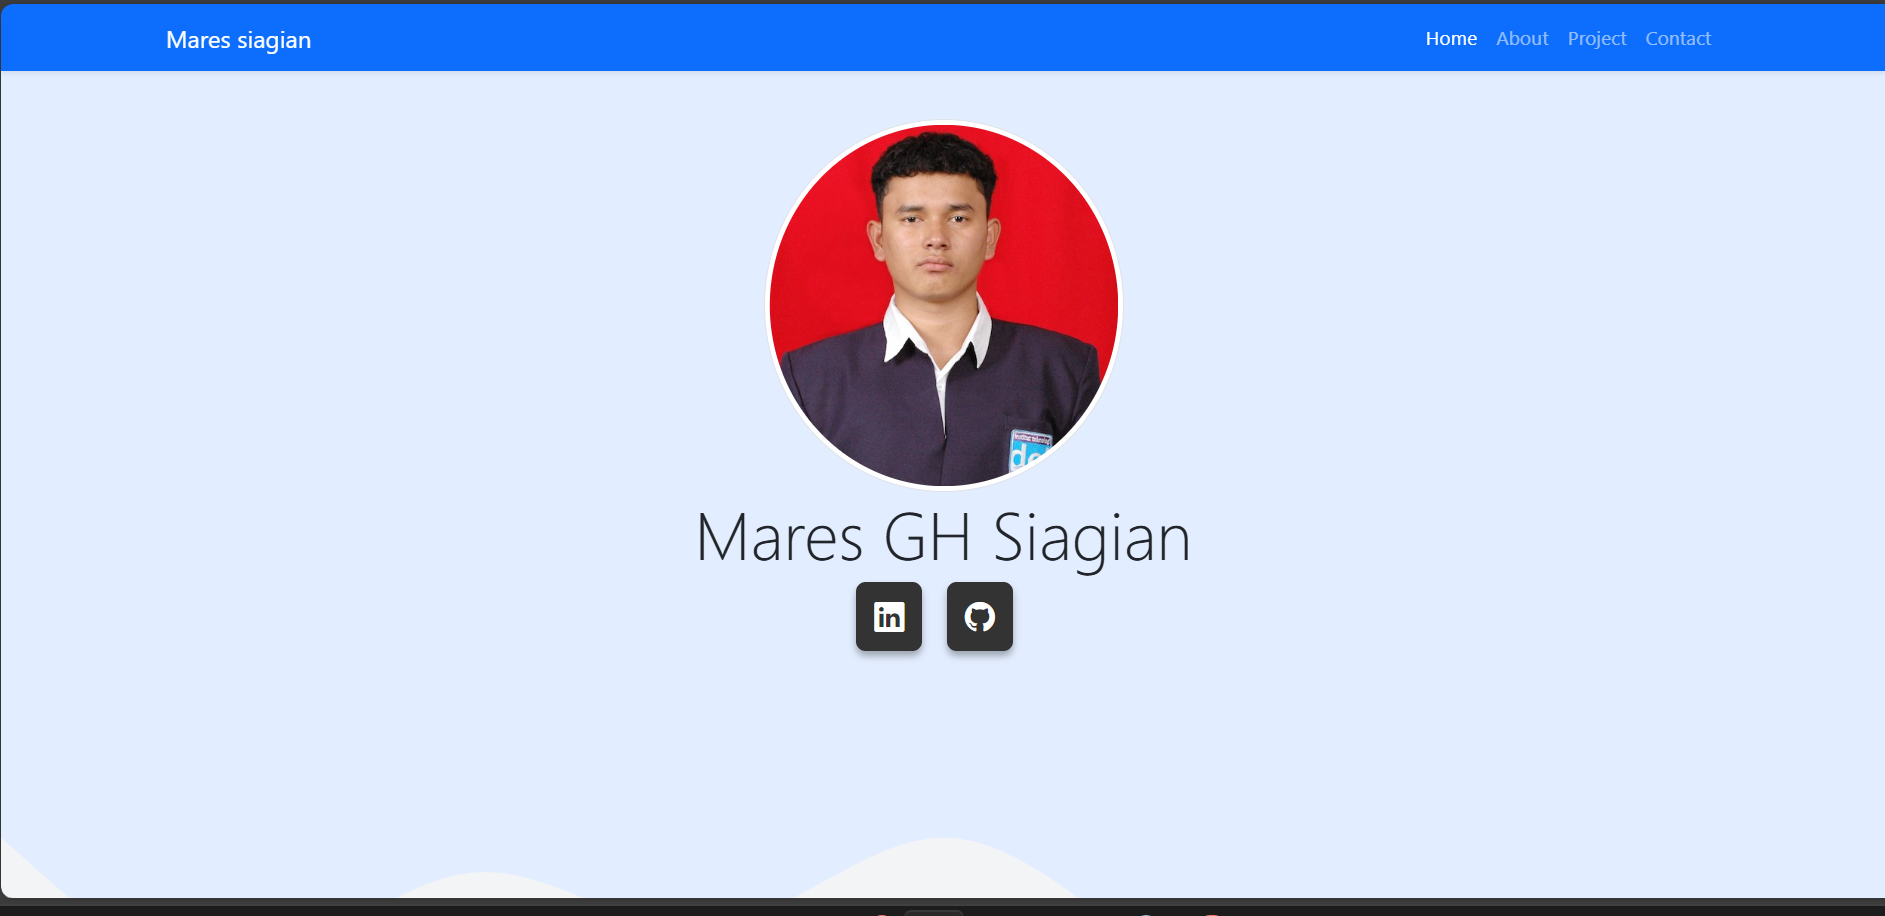
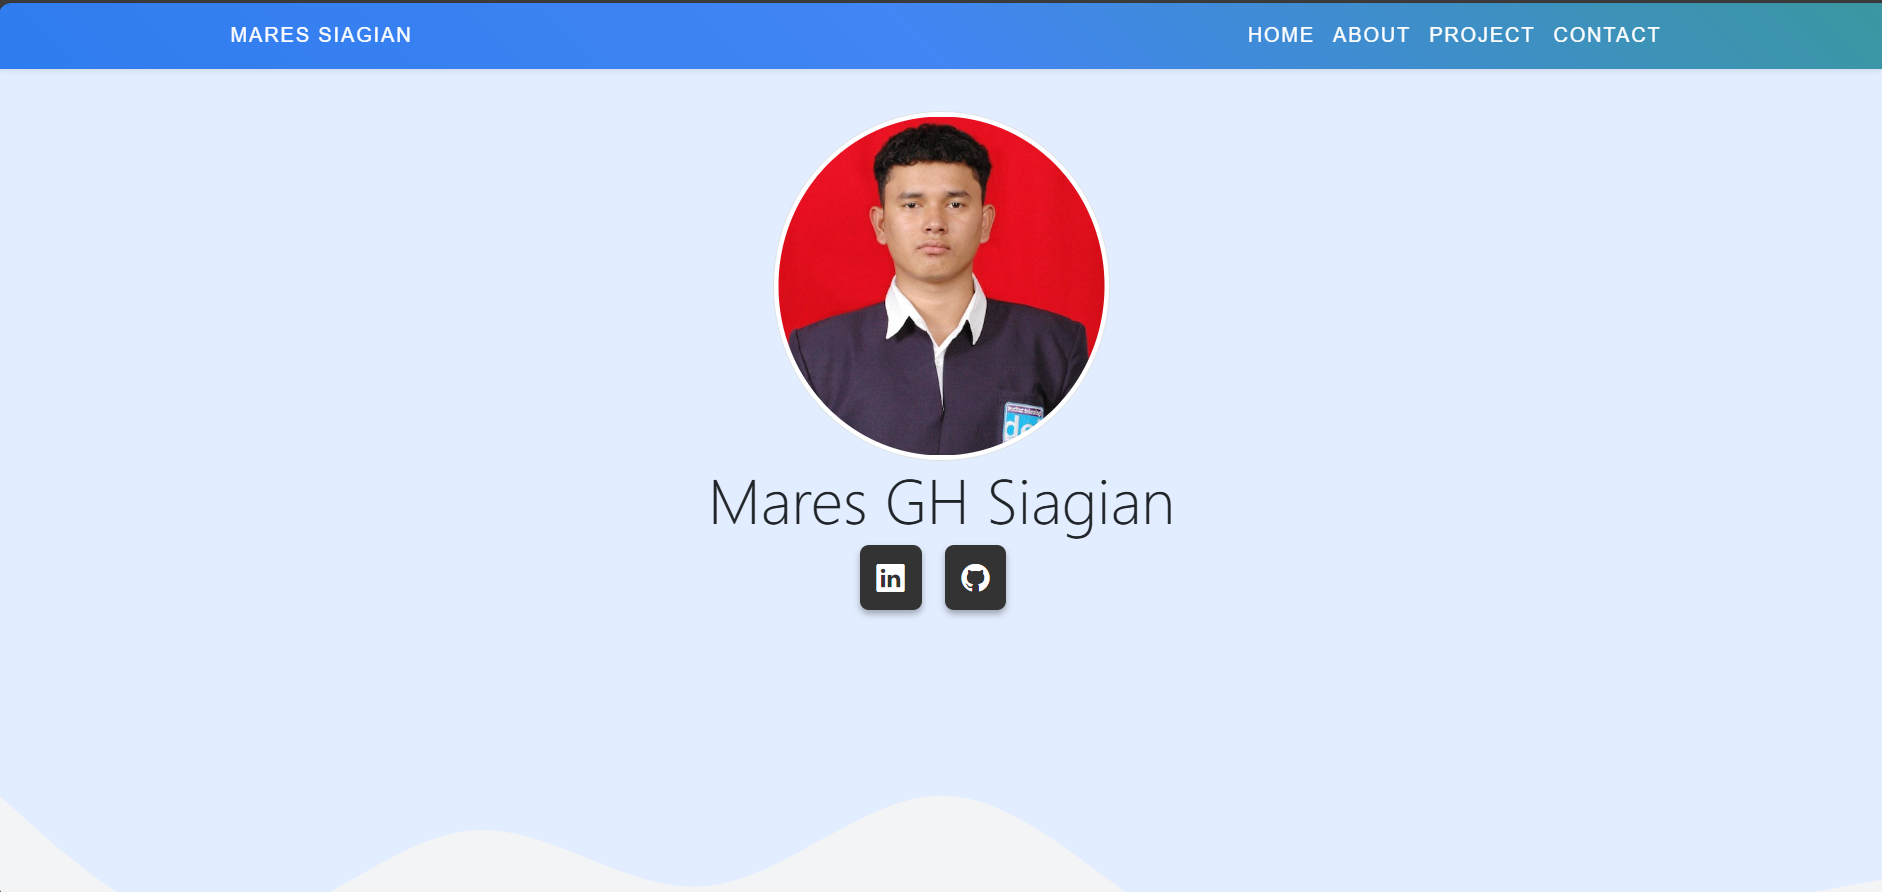
sudah memperbaiki

Changed region(s): [[0.0, 0.0, 1.0, 0.0908], [0.3698, 0.1211, 0.6472, 0.7265], [0.0, 0.9686, 1.0, 1.0]]

diff --git a/index.html b/index.html
@@ -41,15 +41,18 @@
     </nav>
     <!-- Ahkir nvbar -->
     <!-- jumbotron -->
-    <div class="jumbotron text-center hidden">
+    <div class="jumbotron text-center">
       <img src="img/Portofolio.jpg" alt="Mares Siagian" width="300" class="rounded-circle img-thumbnail hidden" />
-      <h1 class="display-4 hidden">Mares GH Siagian</h1>
+      <h1 class="display-4">Mares GH Siagian</h1>
       <p class="lead hidden">
         <a href="https://www.linkedin.com/in/mares-siagian30" target="_blank" class="bi bi-linkedin">
           <i class="fab fa-linkedin"></i>
         </a>
         <a href="https://github.com/MaresGHSiagian" target="_blank" class="bi bi-github">
           <i class="fab fa-github"></i>
+        </a>
+        <a href="https://www.instagram.com/mares_siagian/" target="_blank" class="bi bi-instagram">
+          <i class="fab fa-instagram"></i>
         </a>
       </p>
       <svg xmlns="http://www.w3.org/2000/svg" viewBox="0 0 1440 320" class="hidden">
@@ -70,12 +73,19 @@
         </div>
         <div class="row justify-content-center fs-5 text-center">
           <div class="col-md-4">
-            <p class="text">
-              I am a fresh graduate student from the Del Institute of Technology majoring in Information Systems. I have experience in web development, data warehousing, and mobile application design. Currently, I am very interested in
+            <p class="text-start">
+              Hello! My name is Mares Siagian. You can call me Mares. I live in Parhitean, North Sumatra. I am a graduate of Information System from Institut Teknologi Del. I like Futsal, Volleyball, and learning new things.
+          </div>
+          <div class="col-md-4">
+            <p class="text text-start">
+              I am a graduate student from the Del Institute of Technology majoring in Information Systems. I have experience in web development, data warehousing, and mobile application design. Currently, I am very interested in
               positions related to Data Analyst, Front End Development, and Back End Developer. I have good experience in leadership, integrity, communication skills, time management, teamwork, problem-solving, and quick learning, and I am
               ready to take on new challenges.
             </p>
-          </div>
+            </div>       
+          <div class="col-md-4">
+            <p class="text-start">
+            I am a Frontend developer with a solid foundation in Web design and development, backed by hands-on professional experience. I’m passionate about crafting seamless user experiences and clean, efficient code. I’m currently seeking new challenges as a Software Engineer, Frontend Engineer and Back End where I can contribute my expertise and continue to grow. </p>
             </div>       
           </div>
         </div>
@@ -143,7 +153,7 @@
           </div>
           <div class="col-md-6 mb-3">
             <div class="card">
-              <img src="img/PLN.png" class="card-img-top" style="height: 306px;alt="projects4" />
+              <img src="img/PLN.png" class="card-img-top" style="height: 306px;" alt="projects4" />
               <div class="card-body">
                 <p class="card-text fw-bold">SISTEM INFORMASI ATTB(Aset tetap tidak Beropersi)PLN UP 3 MEDAN</p>
                 <p class="card-text">Web Design for Assisting Employees in Managing Assets PLN UP 3 Medan</p>
@@ -179,20 +189,21 @@
         </div>
         <div class="row justify-content-center">
           <div class="col-md-7">
-            <form name="wpu-contact-form">
+            <form name="wpu-contact-form" onsubmit="return validateForm()">
               <div class="mb-3">
                 <label for="name" class="form-label">Nama Lengkap</label>
-                <input type="text" class="form-control" id="name" aria-describedby="name" name="nama" />
+                <input type="text" class="form-control" id="name" aria-describedby="name" name="nama" required />
               </div>
               <div class="mb-3">
                 <label for="email" class="form-label">Email</label>
-                <input type="email" class="form-control" id="email" aria-describedby="email" name="email" />
+                <input type="email" class="form-control" id="email" aria-describedby="email" name="email" required />
               </div>
               <div class="mb-3">
                 <label for="pesan" class="form-label">Pesan</label>
-                <textarea class="form-control" id="pesan" rows="3" name="pesan"></textarea>
+                <textarea class="form-control" id="pesan" rows="3" name="pesan" required></textarea>
               </div>
-              <button type="submit" class="btn btn-primary" onclick="showMessage()">Kirim</button>
+              <button type="submit" class="btn btn-primary">Kirim</button>
+              <p id="error-message" style="display: none; color: red">Semua kolom wajib diisi!</p>
               <p id="success-message" style="display: none; color: green">Pesan berhasil dikirim!</p>
             </form>
           </div>
@@ -225,9 +236,26 @@
     </script>
 
     <script>
-      function showMessage() {
-        document.getElementById("success-message").style.display = "block";
+      function validateForm() {
+        const name = document.getElementById("name").value.trim();
+        const email = document.getElementById("email").value.trim();
+        const pesan = document.getElementById("pesan").value.trim();
+        const errorMessage = document.getElementById("error-message");
+        const successMessage = document.getElementById("success-message");
+      
+        if (!name || !email || !pesan) {
+          errorMessage.style.display = "block";
+          successMessage.style.display = "none";
+          return false; // Mencegah form dikirim jika ada field yang kosong
+        }
+      
+        errorMessage.style.display = "none";
+        successMessage.style.display = "block";
+      
+      
+        return false; // Mencegah reload halaman (jika diperlukan)
       }
+      
     </script>
   </body>
 </html>

diff --git a/style.css b/style.css
@@ -166,7 +166,7 @@ body {
   height: 100vh;
   background: linear-gradient(45deg, #e2edff, #0066cc);
   background-size: 200% 200%;
-  animation: gradientShift 15s ease infinite;
+  animation: gradientShift 9s ease infinite;
 }
 
 /* Animasi untuk gradasi background */
@@ -180,4 +180,60 @@ body {
   100% {
     background-position: 0% 0%;
   }
+}
+
+@keyframes wiggle {
+  0%,
+  100% {
+    transform: rotate(-2deg);
+  }
+  50% {
+    transform: rotate(2deg);
+  }
+}
+
+.card {
+  animation: wiggle 2s ease-in-out infinite alternate;
+  transition: transform 2s ease, box-shadow 0.3s ease;
+  overflow: hidden;
+  border-radius: 15px;
+}
+
+.card:hover {
+  animation: none; /* Hentikan gerakan saat di-hover */
+  transform: scale(1.05);
+  box-shadow: 0 10px 20px rgba(0, 0, 0, 0.2);
+}
+
+.card img {
+  transition: transform 0.3s ease;
+  border-top-left-radius: 15px;
+  border-top-right-radius: 15px;
+}
+
+.card:hover img {
+  transform: scale(1.1);
+}
+
+.card-body {
+  background: linear-gradient(135deg, #ffffff, #f1f1f1);
+  padding: 20px;
+  border-radius: 0 0 15px 15px;
+}
+
+.card-text {
+  transition: color 0.3s ease;
+}
+
+.card:hover .card-text.fw-bold {
+  color: hsl(126, 94%, 34%);
+}
+
+.btn-primary {
+  transition: background-color 0.3s ease, transform 0.3s ease;
+}
+
+.btn-primary:hover {
+  background-color: #0056b3;
+  transform: scale(1.1);
 }
